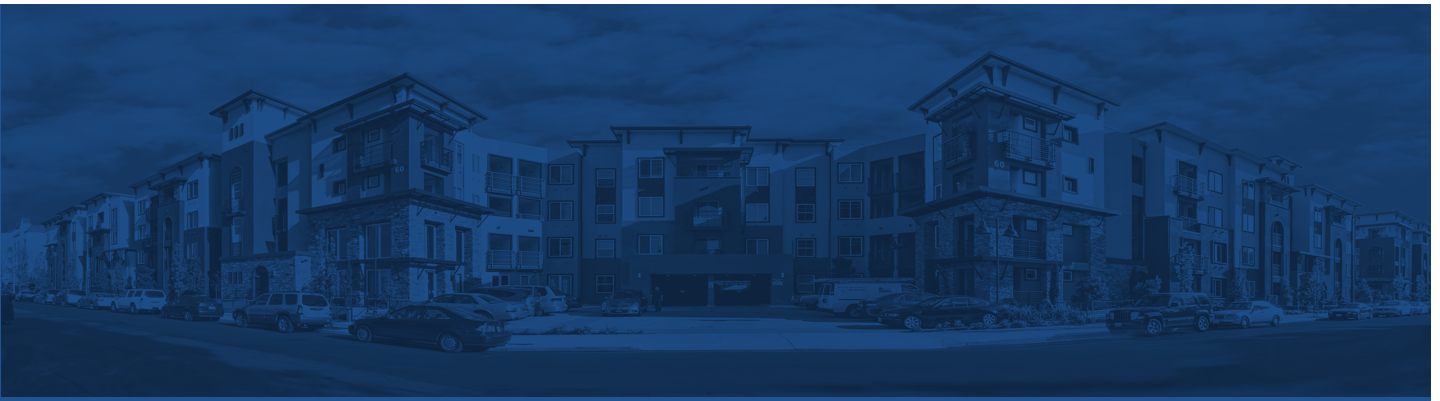
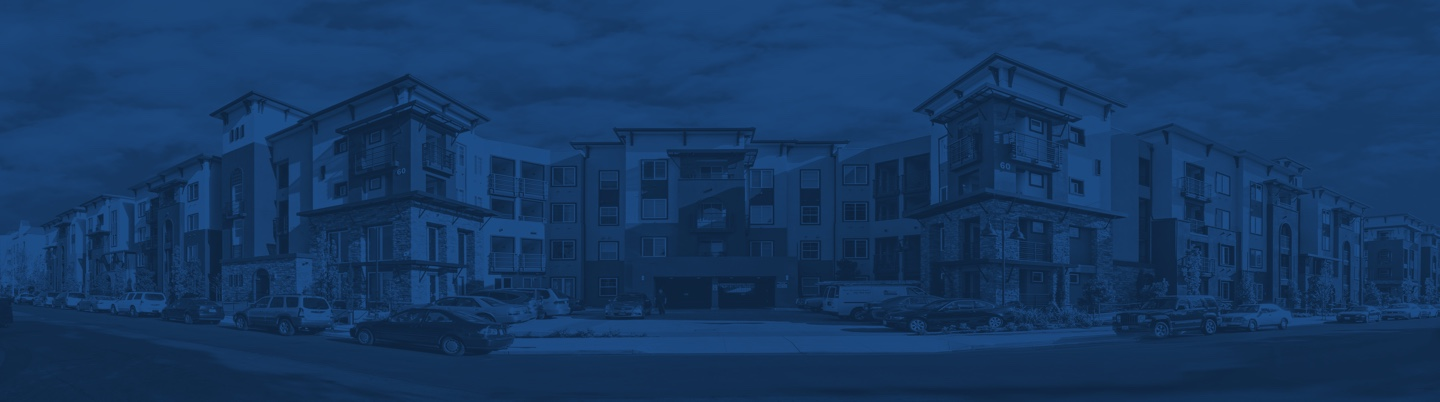
Additional string and link updates from #166621494 (#37)
* [#166621494] Additional string and link updates

* [#166621494] fix SJ image with better crop and file size

* [#166621494] minor CSS fix per @slowbot

diff --git a/app/assets/stylesheets/toolkit.scss b/app/assets/stylesheets/toolkit.scss
@@ -4849,7 +4849,7 @@ th.hide-for-touch {
     width: 42.625rem; } }
 
 .main-content {
-  padding-bottom: 1rem;
+  padding-bottom: .25rem;
   max-width: 100vw; }
 
 .a-top-right {

diff --git a/README.md b/README.md
@@ -4,7 +4,6 @@
 [![Test Coverage](https://codeclimate.com/github/Exygy/dahlia-listings/badges/coverage.svg)](https://codeclimate.com/github/Exygy/dahlia-listings/coverage)
 [![Build Status](https://semaphoreci.com/api/v1/exygy/dahlia-listings-full/branches/master/badge.svg)](https://semaphoreci.com/exygy/dahlia-listings)
 
-
 Cross-browser testing done with <a href="https://www.browserstack.com/"><img src="./Browserstack-logo@2x.png?raw=true" height="30" ></a>
 
 ## Purpose
@@ -23,7 +22,7 @@ Before you install DAHLIA, your system should have the following:
 - [Bundler](https://github.com/bundler/bundler) `gem install bundler`
 - [Homebrew](http://brew.sh)
 - [PostgreSQL](https://postgresapp.com/)
-- Use Node v12.1.x (npm v6.9.x) — If you need to manage multiple Node versions on your dev machine, [install NVM]((https://github.com/nvm-sh/nvm)) and run `nvm use`
+- Use Node v12.1.x (npm v6.9.x) — If you need to manage multiple Node versions on your dev machine, [install NVM](<(https://github.com/nvm-sh/nvm)>) and run `nvm use`
 
 ## Getting started
 
@@ -32,23 +31,27 @@ Before you install DAHLIA, your system should have the following:
 1. `git clone https://github.com/Exygy/dahlia-listings.git` to create the project directory
 1. `cd dahlia-listings` to open the directory
 1. `bundle install` to download all necessary gems
-    - see [here](https://stackoverflow.com/a/19850273/260495) if you have issues installing `pg` gem with Postgres.app, you may need to use: `gem install pg -v 1.1.4 -- --with-pg-config=/Applications/Postgres.app/Contents/Versions/latest/bin/pg_config
+   - see [here](https://stackoverflow.com/a/19850273/260495) if you have issues installing `pg` gem with Postgres.app, you may need to use: `gem install pg -v 1.1.4 -- --with-pg-config=/Applications/Postgres.app/Contents/Versions/latest/bin/pg_config
 1. `yarn install` to install Angular and other JS dependancies.
 1. `overcommit --install` to install git hooks into the repo
 1. `rails g dahlia_data_models:install` to generate migrations from the dahlia_data_models gem
 1. `rails db:create && rails db:migrate` to create the dev and test databases and run migrations
+1. `rails db:seed` to load the seed data into the new databases
 1. `rails s` to start the server, which will now be running at http://localhost:3000 by default
 
 ## Running Tests
 
 To run Ruby tests:
+
 - `rails spec`
 
 To run Javascript unit tests:
+
 - `rails jasmine:ci` to run in terminal
 - `rails jasmine` to then run tests interactively at http://localhost:8888/
 
 To run E2E tests:
+
 - Installation (needs to be run once): `./node_modules/protractor/bin/webdriver-manager update` to get the selenium webdriver installed
 - On one tab have your Rails test server running: `yarn rails-setup-test`
 - On another tab, run `yarn protractor` to run the selenium webdriver and protractor tests. A Chrome browser will pop up and you will see it step through each of the tests.
@@ -72,7 +75,6 @@ We use `grunt-clean` and `grunt-copy` to transfer the CSS, and `grunt-replace` t
 
 Temporary "acceptance" apps are created upon opening a pull request for a feature branch. After the pull request is closed, the acceptance app is automatically spun down. See [this Heroku article](https://devcenter.heroku.com/articles/github-integration-review-apps) for details.
 
-
 ### Code style and quality
 
 #### Javascript
@@ -80,11 +82,12 @@ Temporary "acceptance" apps are created upon opening a pull request for a featur
 Javascript code quality is ensured by two npm packages: JsHint and JSCS. They will run automatically as a pre-commit hooks. Follow the [Airbnb JavaScript Style guide](http://nerds.airbnb.com/our-javascript-style-guide/).
 
 #### Ruby
+
 [Rubocop](https://github.com/bbatsov/rubocop) is configured in `.rubocop.yml` to enforce code quality and style standards based on the [Ruby Style Guide](https://github.com/bbatsov/ruby-style-guide) and runs every time you commit using a pre-commit hook. Refer to the [Ruby Style Guide](https://github.com/bbatsov/ruby-style-guide) for all Ruby style questions.
 To identify and have Rubocop automatically correct violations when possible, run:
 
-* `rubocop -a [path_to_file]` for individual files
-* `rubocop -a` for all Ruby files
+- `rubocop -a [path_to_file]` for individual files
+- `rubocop -a` for all Ruby files
 
 ### Changing the Style Guide settings
 
